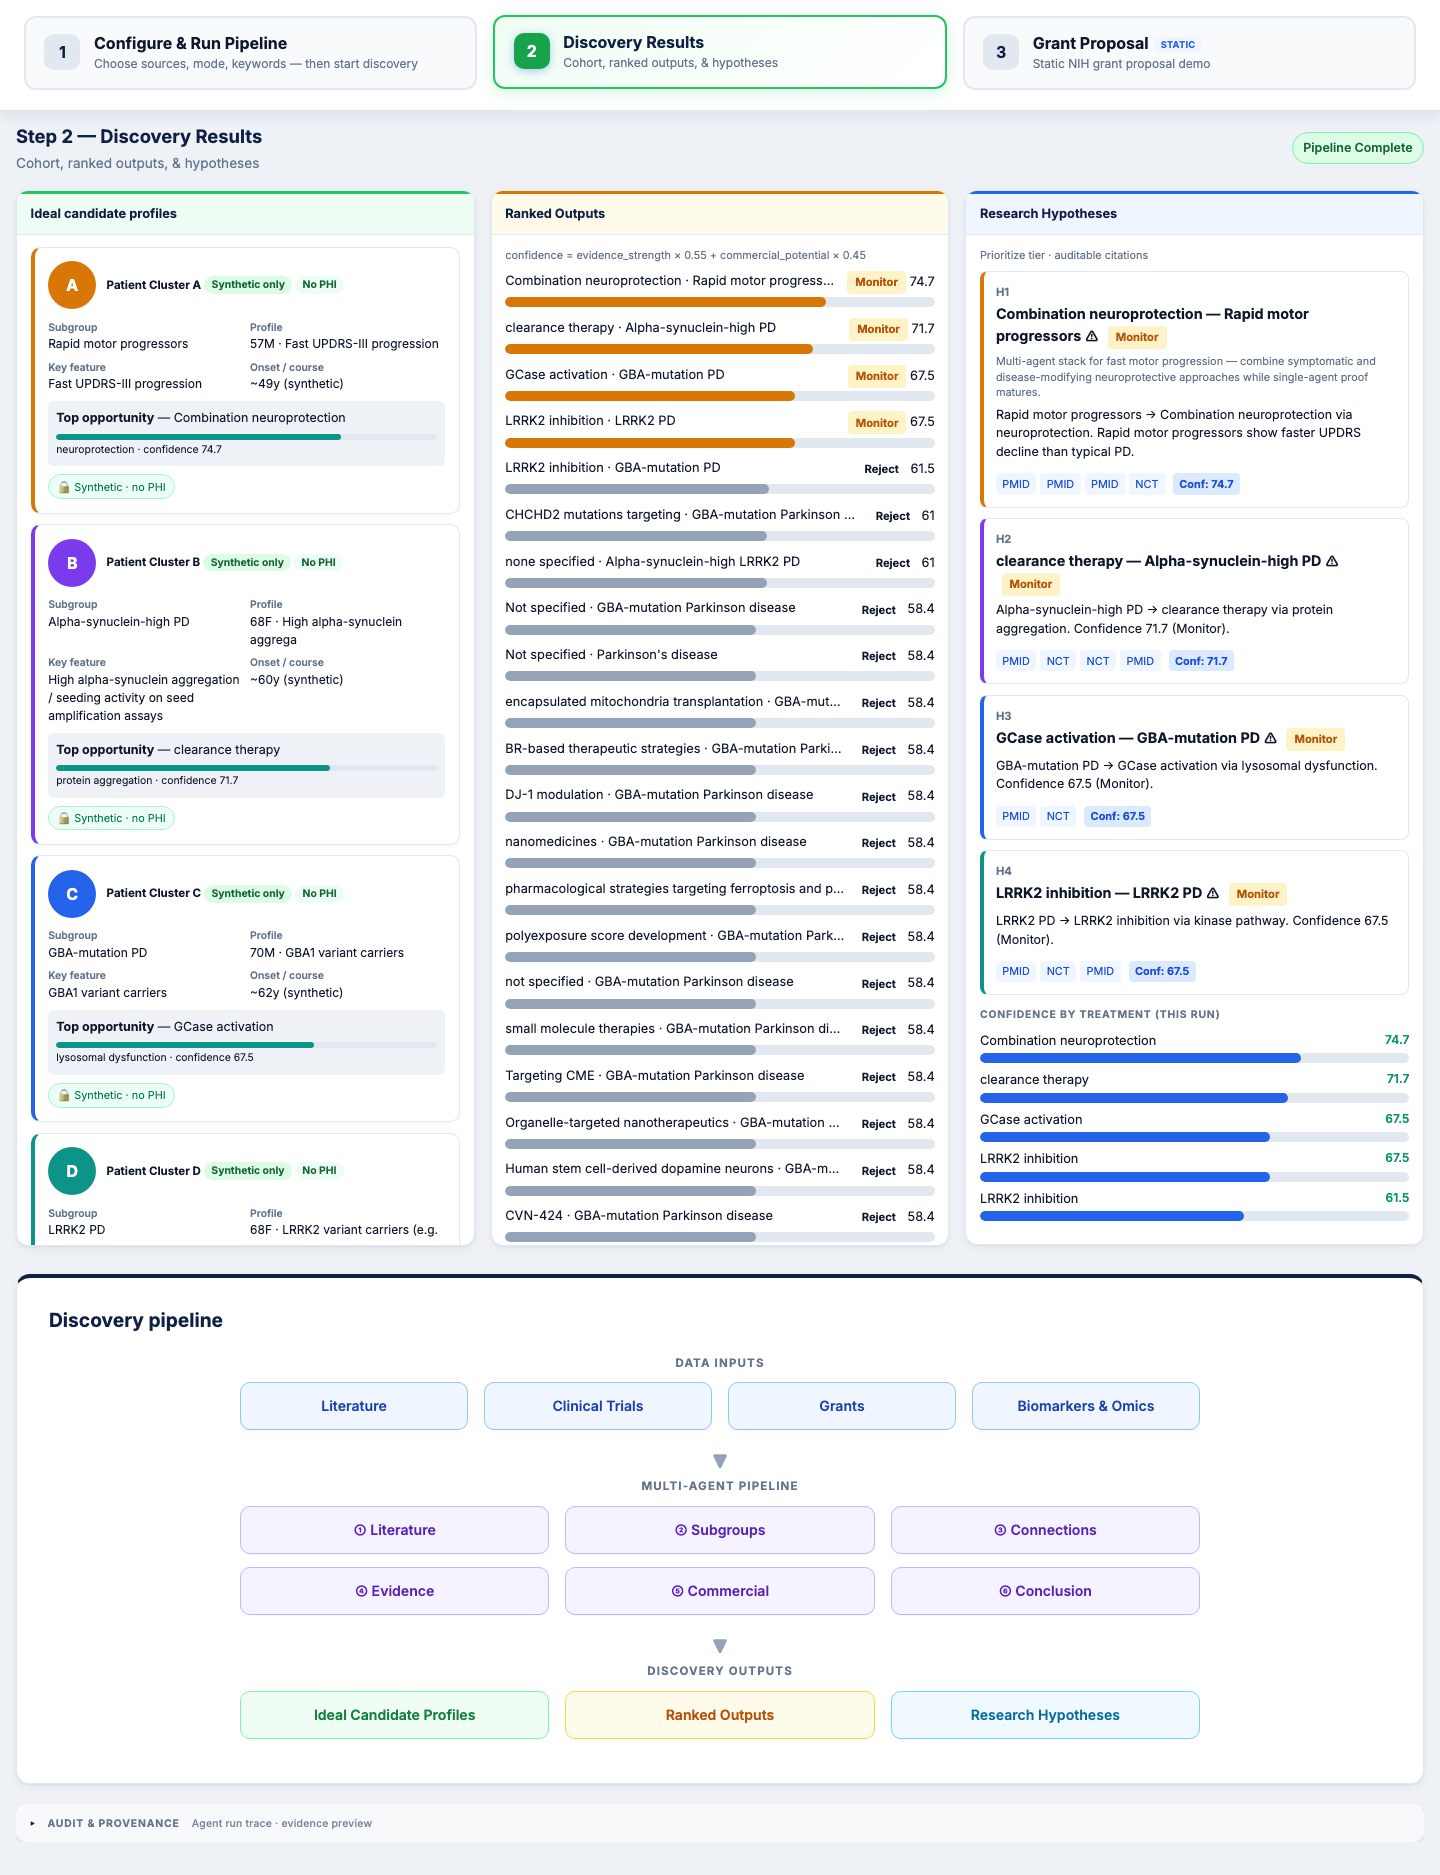
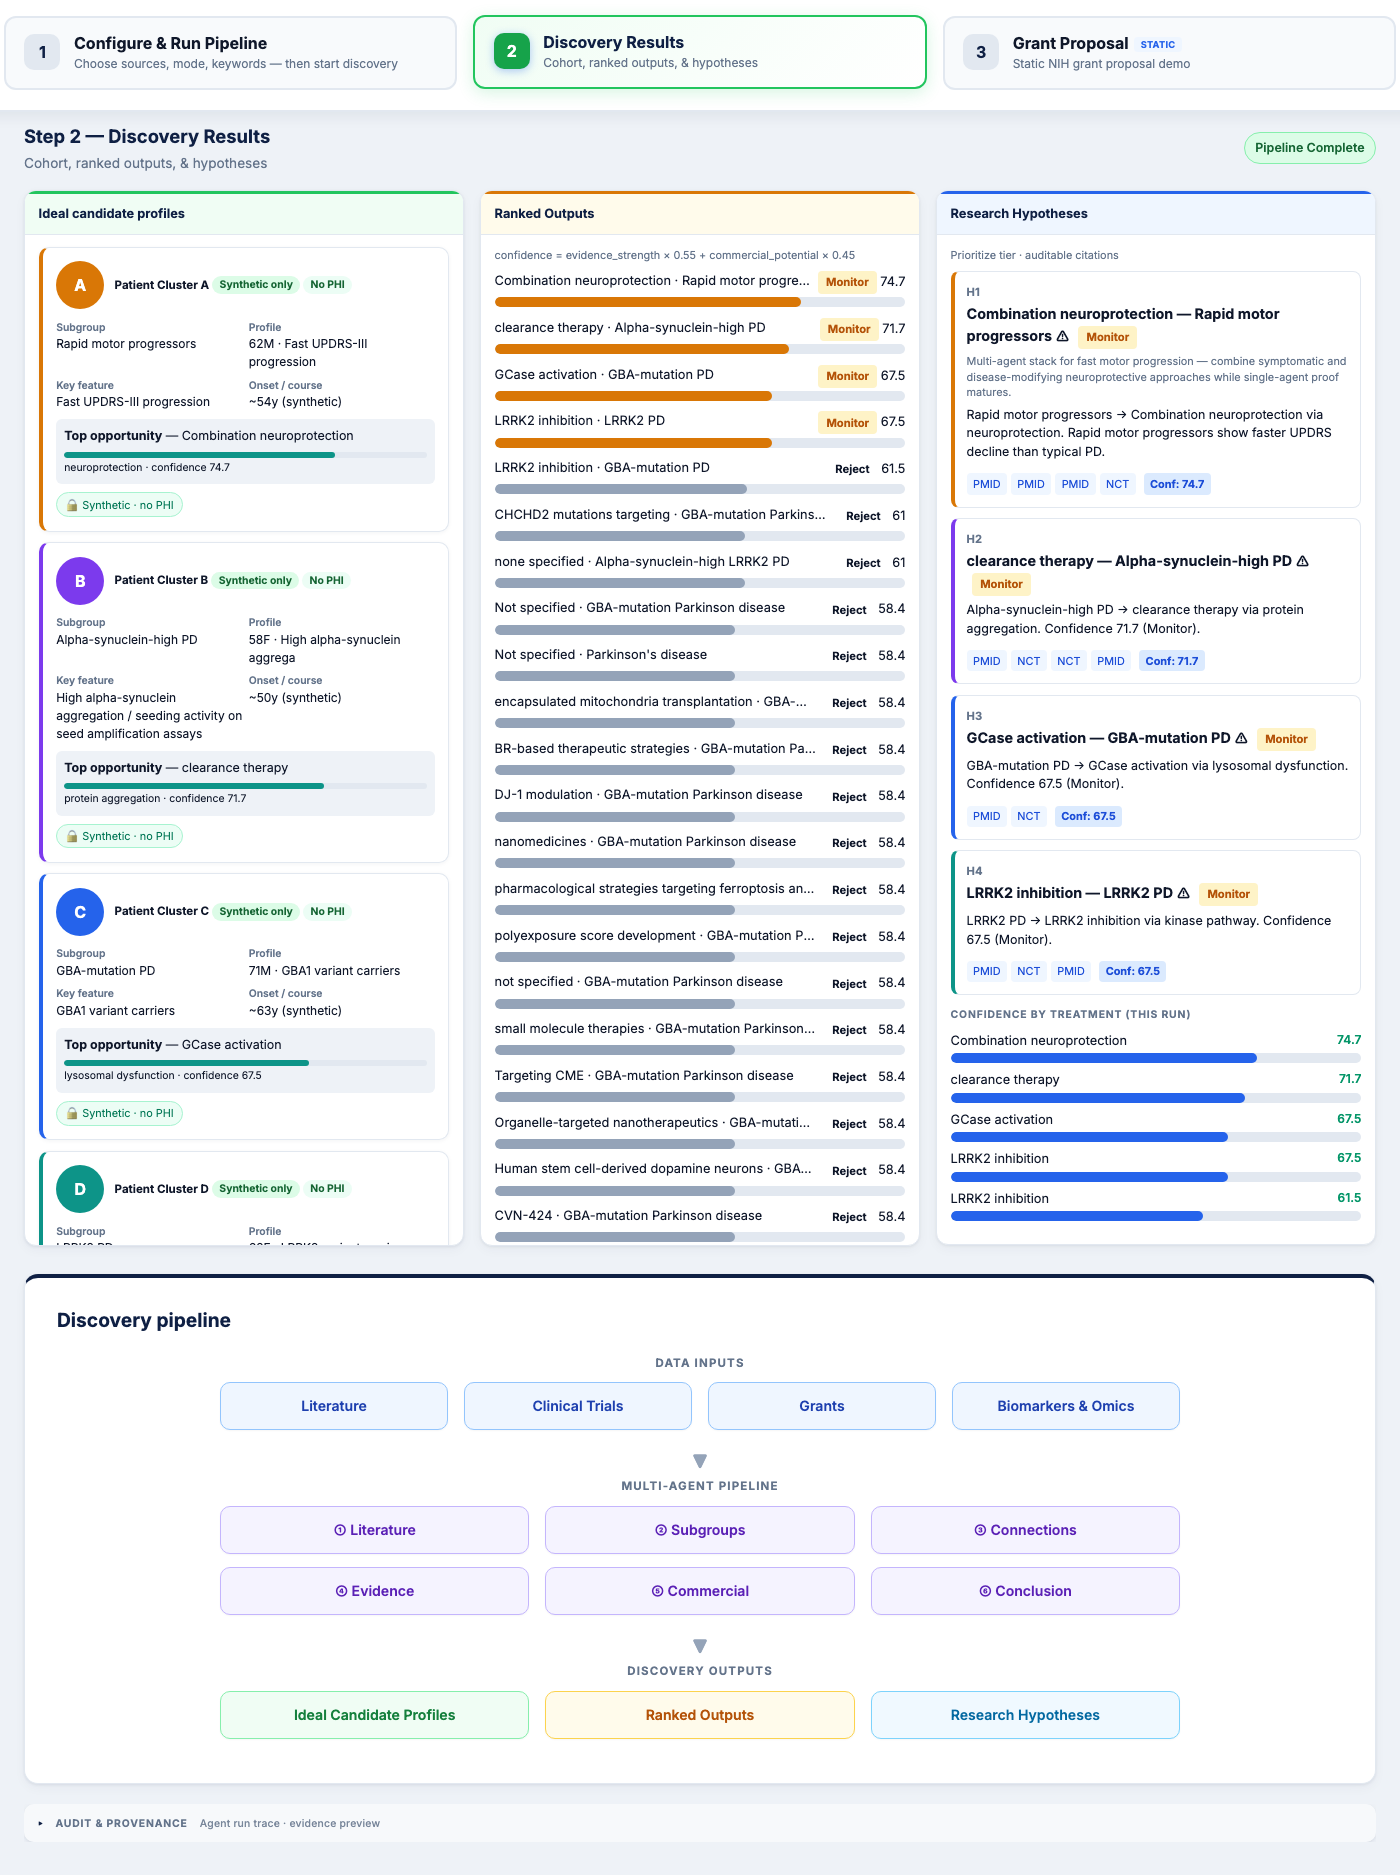
Restore centered 1400px spacing on Step 2 discovery results.
Fixes results-shell and header to match tabs 1 and 3; refreshes Step 2 screenshots and output docs caption.

diff --git a/neurodiscover/frontend/index.html b/neurodiscover/frontend/index.html
@@ -24,7 +24,6 @@
       --text: #0f172a;
       --muted: #64748b;
       --shadow: 0 1px 3px rgba(15,32,68,0.08), 0 4px 12px rgba(15,32,68,0.04);
-      --page-pad: 1rem;
     }
     * { box-sizing: border-box; }
     body {
@@ -39,10 +38,10 @@
     header {
       background: linear-gradient(135deg, var(--navy) 0%, var(--navy-light) 100%);
       color: #fff;
-      padding: 1rem var(--page-pad) 0.85rem;
+      padding: 1rem 1.5rem 0.85rem;
     }
     .header-inner {
-      max-width: 100%;
+      max-width: 1400px;
       margin: 0 auto;
       display: flex;
       align-items: flex-start;
@@ -93,9 +92,9 @@
       max-width: 100%;
     }
     .results-shell {
-      max-width: 100%;
+      max-width: 1400px;
       margin: 0 auto;
-      padding: 0 var(--page-pad) 2rem;
+      padding: 0 1.5rem 2rem;
       width: 100%;
       overflow-x: hidden;
       box-sizing: border-box;

diff --git a/docs/output.md b/docs/output.md
@@ -27,7 +27,7 @@ Layout top-to-bottom:
 ![Step 2 — Discovery results overview](/assets/images/dashboard/step2-discovery-results.png)
 {: .doc-screenshot }
 
-*Step 2 — centered column with KPI strip above title; ideal candidate profiles and ranked outputs cap at research hypotheses body height (borders wrap content; scroll when longer); ranked bars show treatment · subgroup; discovery pipeline and audit & provenance below.*
+*Step 2 — centered results shell (max 1400px, 1.5rem side padding) with KPI strip above title; ideal candidate profiles and ranked outputs cap at research hypotheses body height (borders wrap content; scroll when longer); ranked bars show treatment · subgroup; discovery pipeline and audit & provenance below.*
 
 ---
 
